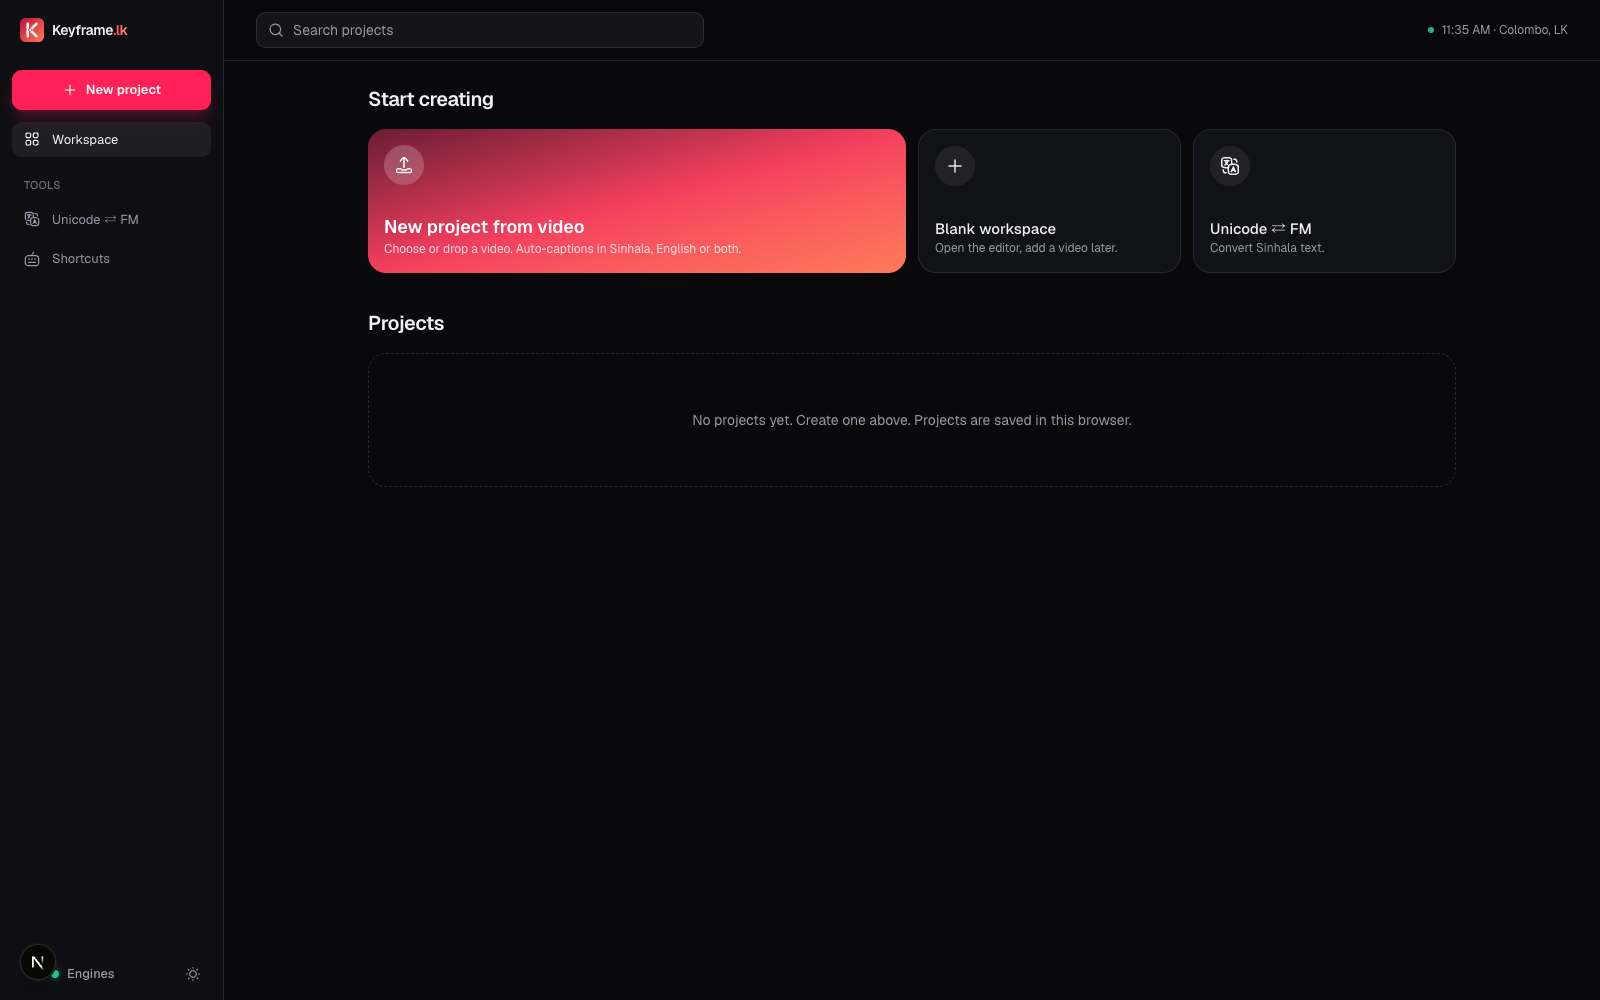
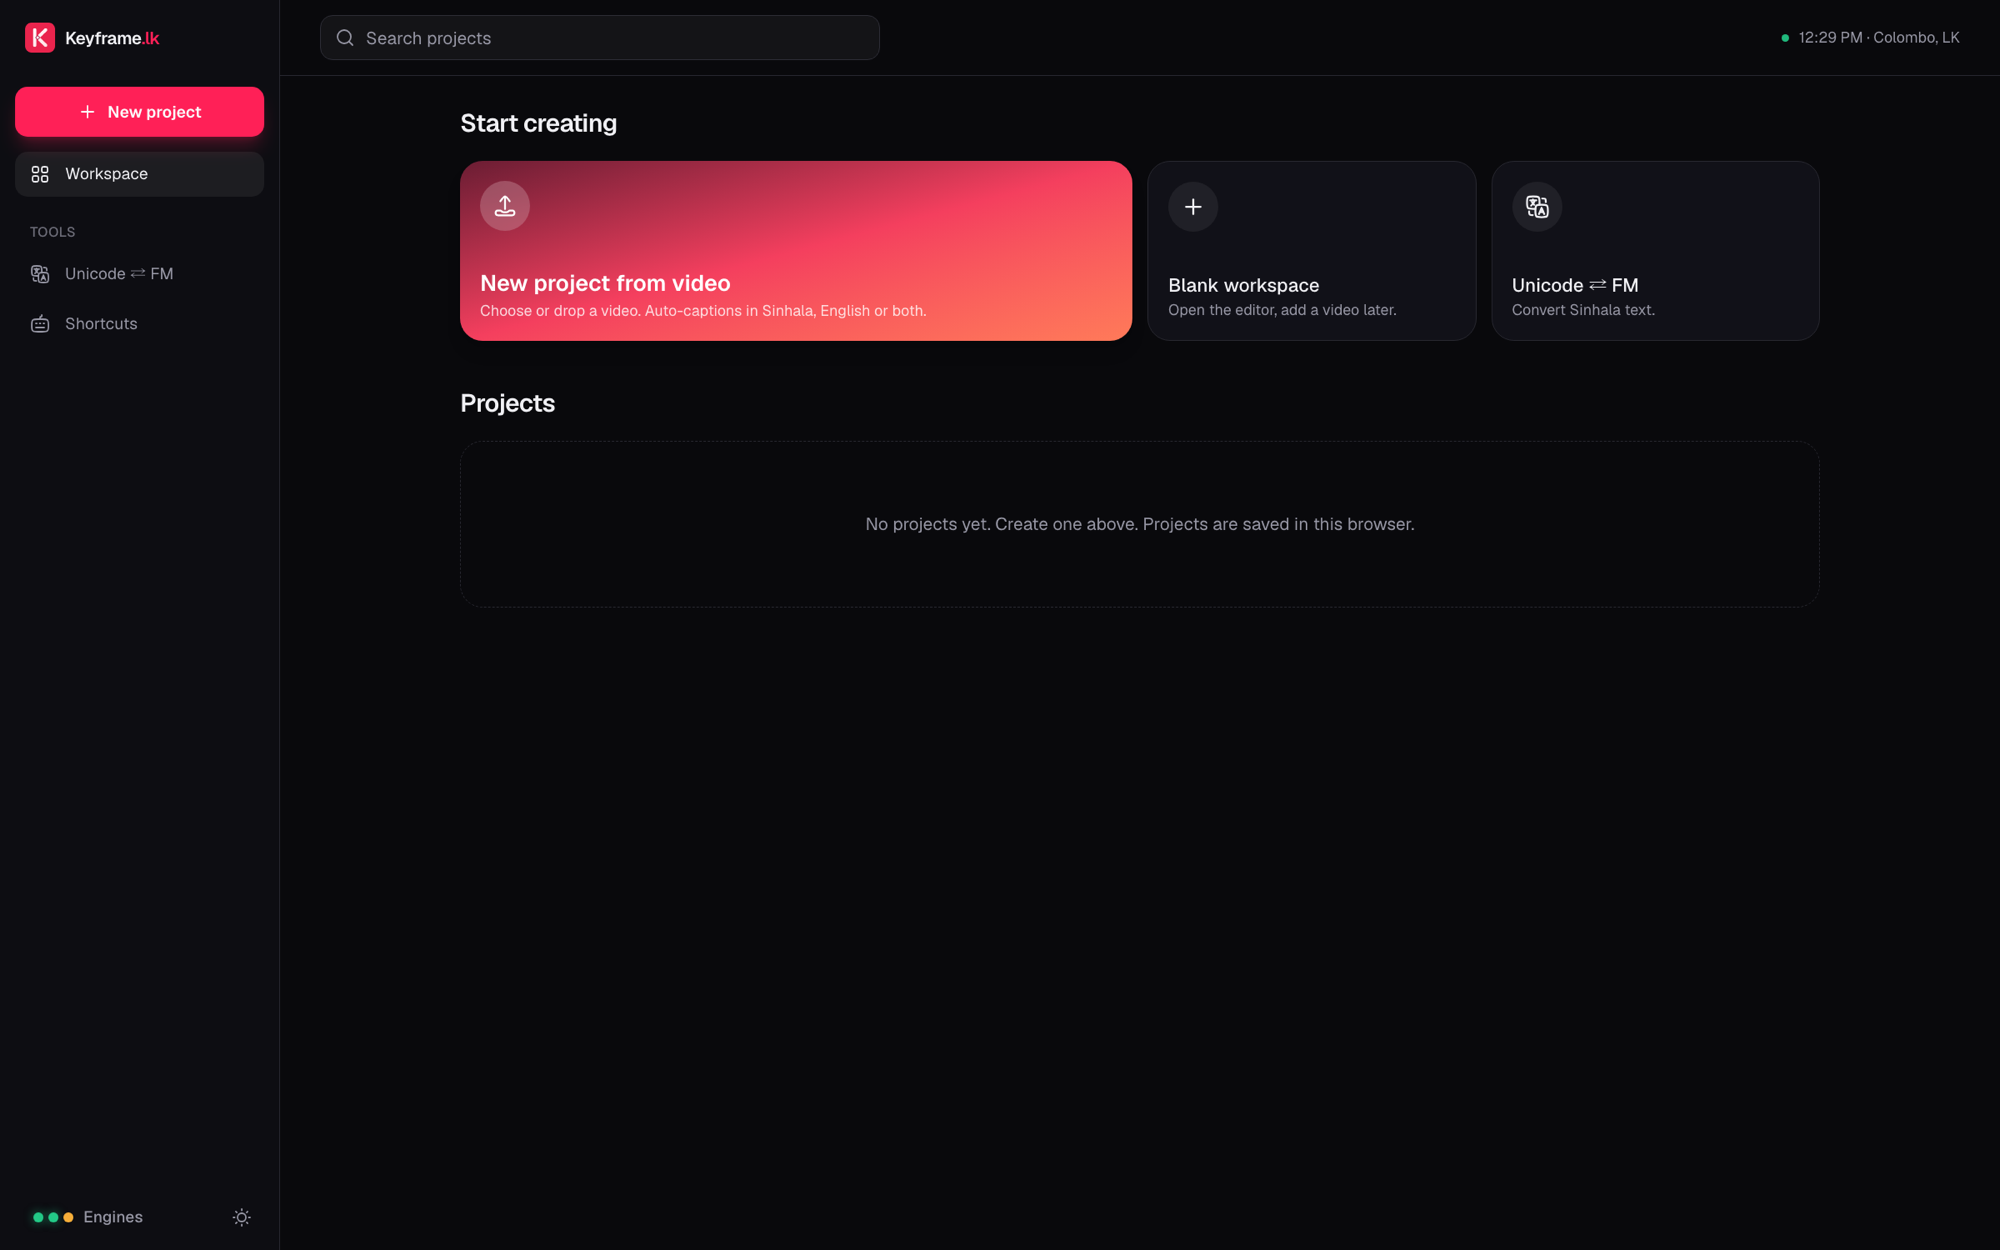
Remove CI workflow and refresh docs
Removes the GitHub Actions CI workflow and GitHub Actions Dependabot updates, updates contributor documentation accordingly, and refreshes README screenshots.

diff --git a/README.md b/README.md
@@ -8,7 +8,6 @@
 
 Reels · TikTok · Shorts &nbsp;|&nbsp; සිංහල · English · code-mixed &nbsp;|&nbsp; Unicode + legacy FM fonts
 
-[![CI](https://github.com/Elix-Innovations/keyframe.lk/actions/workflows/ci.yml/badge.svg)](https://github.com/Elix-Innovations/keyframe.lk/actions/workflows/ci.yml)
 ![Next.js](https://img.shields.io/badge/Next.js-16-000000?logo=nextdotjs&logoColor=white)
 ![React](https://img.shields.io/badge/React-19-61DAFB?logo=react&logoColor=black)
 ![TypeScript](https://img.shields.io/badge/TypeScript-7-3178C6?logo=typescript&logoColor=white)
@@ -493,7 +492,7 @@ The project license does not cover third-party code, fonts or models. Legacy FM 
 
 ## 20. Contributing
 
-See [CONTRIBUTING.md](CONTRIBUTING.md). By opening a pull request you agree to its [Contributor License Agreement](CONTRIBUTING.md#contributor-license-agreement). Run `npm run typecheck` and `npm run test:py` before opening a PR; CI runs the same. Please also read the [Code of Conduct](CODE_OF_CONDUCT.md) and report vulnerabilities as described in [SECURITY.md](SECURITY.md).
+See [CONTRIBUTING.md](CONTRIBUTING.md). By opening a pull request you agree to its [Contributor License Agreement](CONTRIBUTING.md#contributor-license-agreement). Run `npm run typecheck` and `npm run test:py` before opening a PR. Please also read the [Code of Conduct](CODE_OF_CONDUCT.md) and report vulnerabilities as described in [SECURITY.md](SECURITY.md).
 
 <div align="center">
 

diff --git a/CONTRIBUTING.md b/CONTRIBUTING.md
@@ -11,7 +11,7 @@ npm run dev        # server (8787), Python service (8788), web (5180)
 npm run typecheck
 npm run test:py
 ```
-Both must pass. CI runs the same commands.
+Both must pass.
 
 ## Layout
 - `web/` Next.js editor. Panels live in `web/src/components/panels/`. The compositor is `web/src/render/compose.ts`; preview and export share it, so a visual change there shows up in both.
